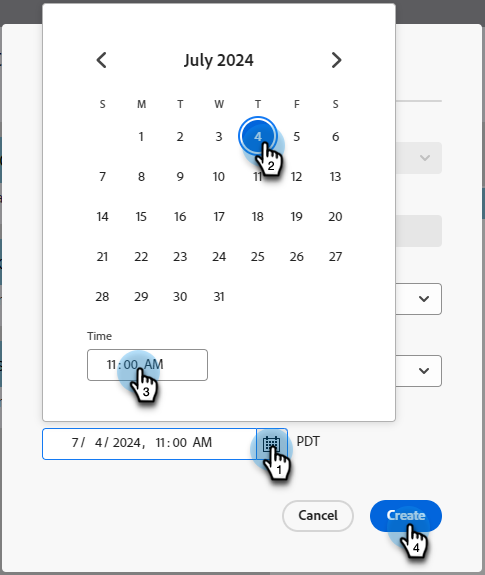
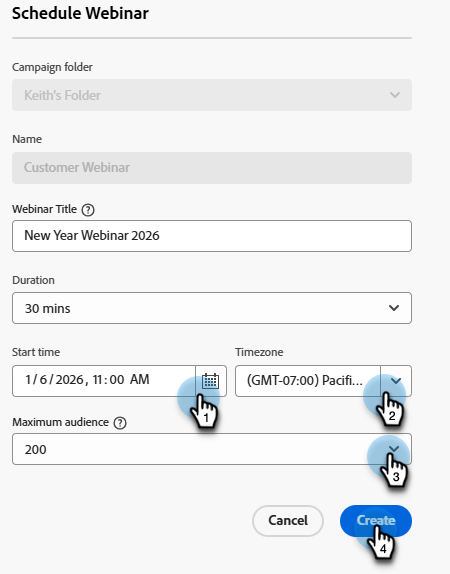
two IW doc updates

diff --git a/help/marketo/product-docs/demand-generation/events/interactive-webinars/create-an-interactive-webinar.md b/help/marketo/product-docs/demand-generation/events/interactive-webinars/create-an-interactive-webinar.md
@@ -36,13 +36,13 @@ Create an Interactive Webinar in a few easy steps.
 
    ![](assets/create-an-interactive-webinar-5.png)
 
-1. Give your webinar a title. Set its maximum audience size and how long it will last.
+1. Give your webinar a title and decide how long it will last.
 
    ![](assets/create-an-interactive-webinar-6.png)
 
    >[!NOTE]
    >
-   >* The webinar's title is visible to participants when they join. It is important that the title is different from the name of the Interactive Webinars Event Program in your Marketo Engage instance, as well as the name of the webinar room.
+   >* The webinar's title **is** visible to participants when they join. It's important that the title is different from the name of the Interactive Webinars Event Program in your Marketo Engage instance, as well as the name of the webinar room.
    >
    >* You cannot reuse a webinar title. Each one must be unique in your Marketo instance.
    >
@@ -50,7 +50,7 @@ Create an Interactive Webinar in a few easy steps.
    >
    >* If you create a test webinar, it needs to be deleted before its start time to ensure that the license for that webinar does not get utilized.
 
-1. Schedule the date/time of your webinar and click **Create**.
+1. Schedule the date/time of your webinar, change the time zone (if desired), and set the maximum audience size. Click **Create** when done.
 
    ![](assets/create-an-interactive-webinar-7.png)
 

diff --git a/help/marketo/product-docs/demand-generation/events/interactive-webinars/gen-ai.md b/help/marketo/product-docs/demand-generation/events/interactive-webinars/gen-ai.md
@@ -32,7 +32,7 @@ After you've accepted the Adobe GenAI terms and conditions, the next step is to 
 
 1. After conducting your on-demand webinar, wait 30 to 60 minutes for the AI to process your recording. The Generate button will become clickable when it's available.
 
-1. Click **[!UICONTROL Generate]**.
+1. Click **[!UICONTROL View GenAI Content]**.
 
    ![](assets/gen-ai-features-2.png){width="800" zoomable="yes"}
 
